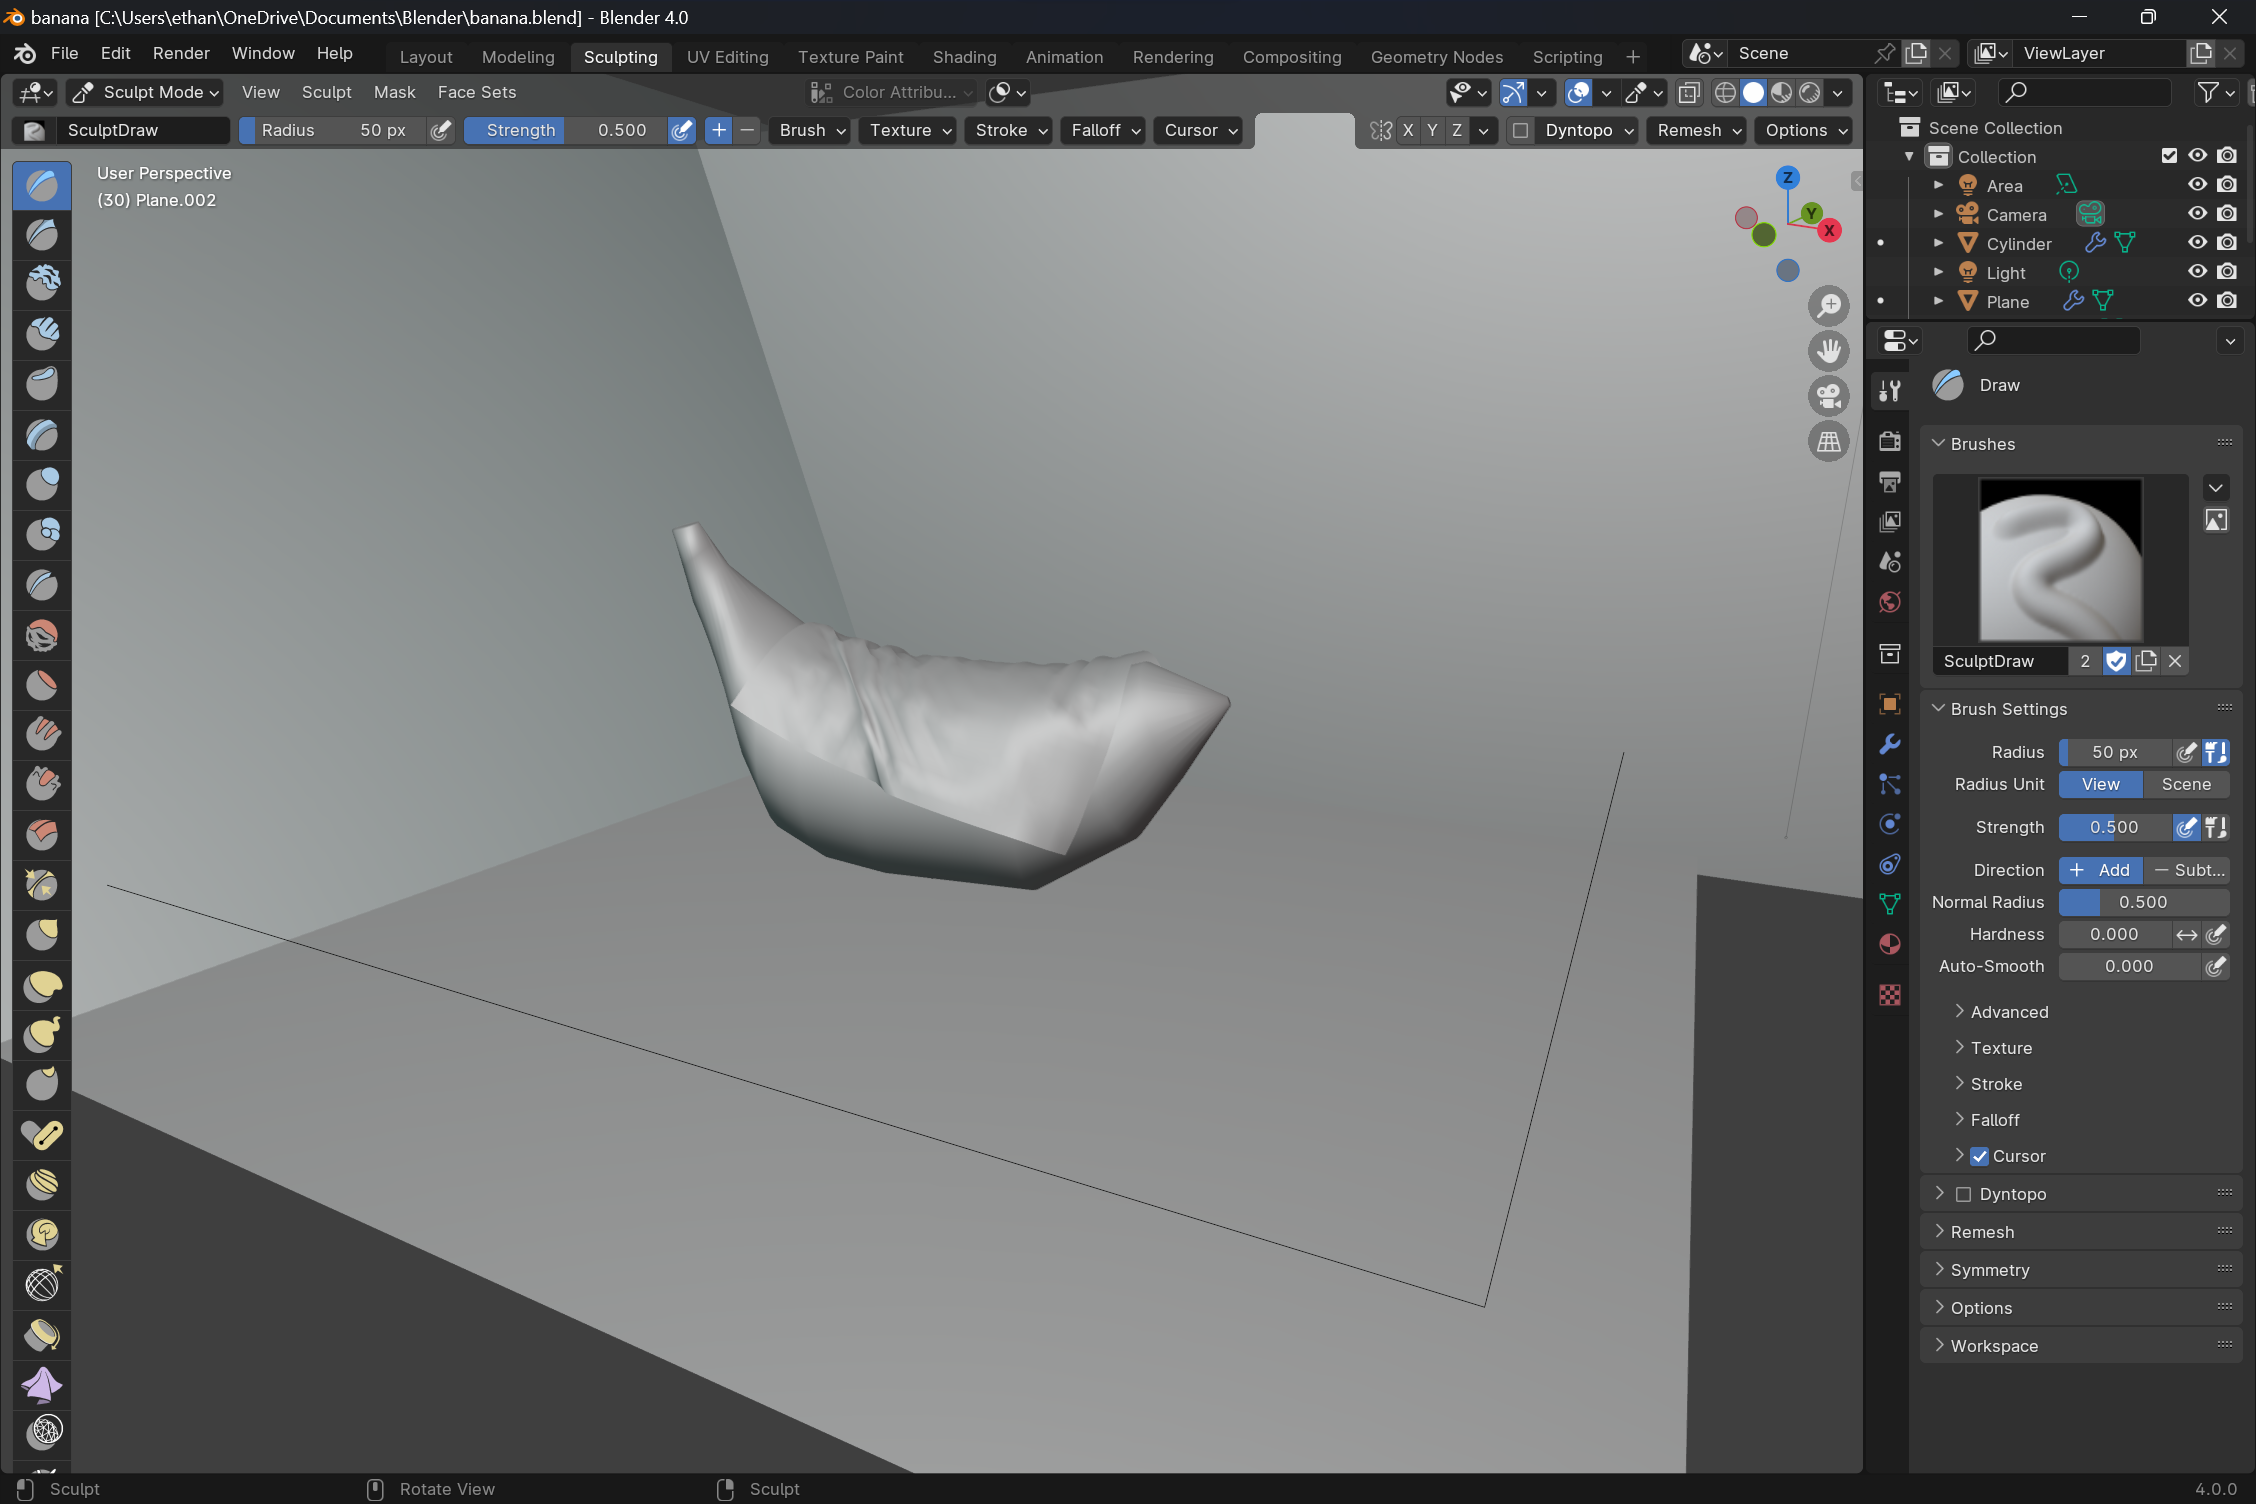
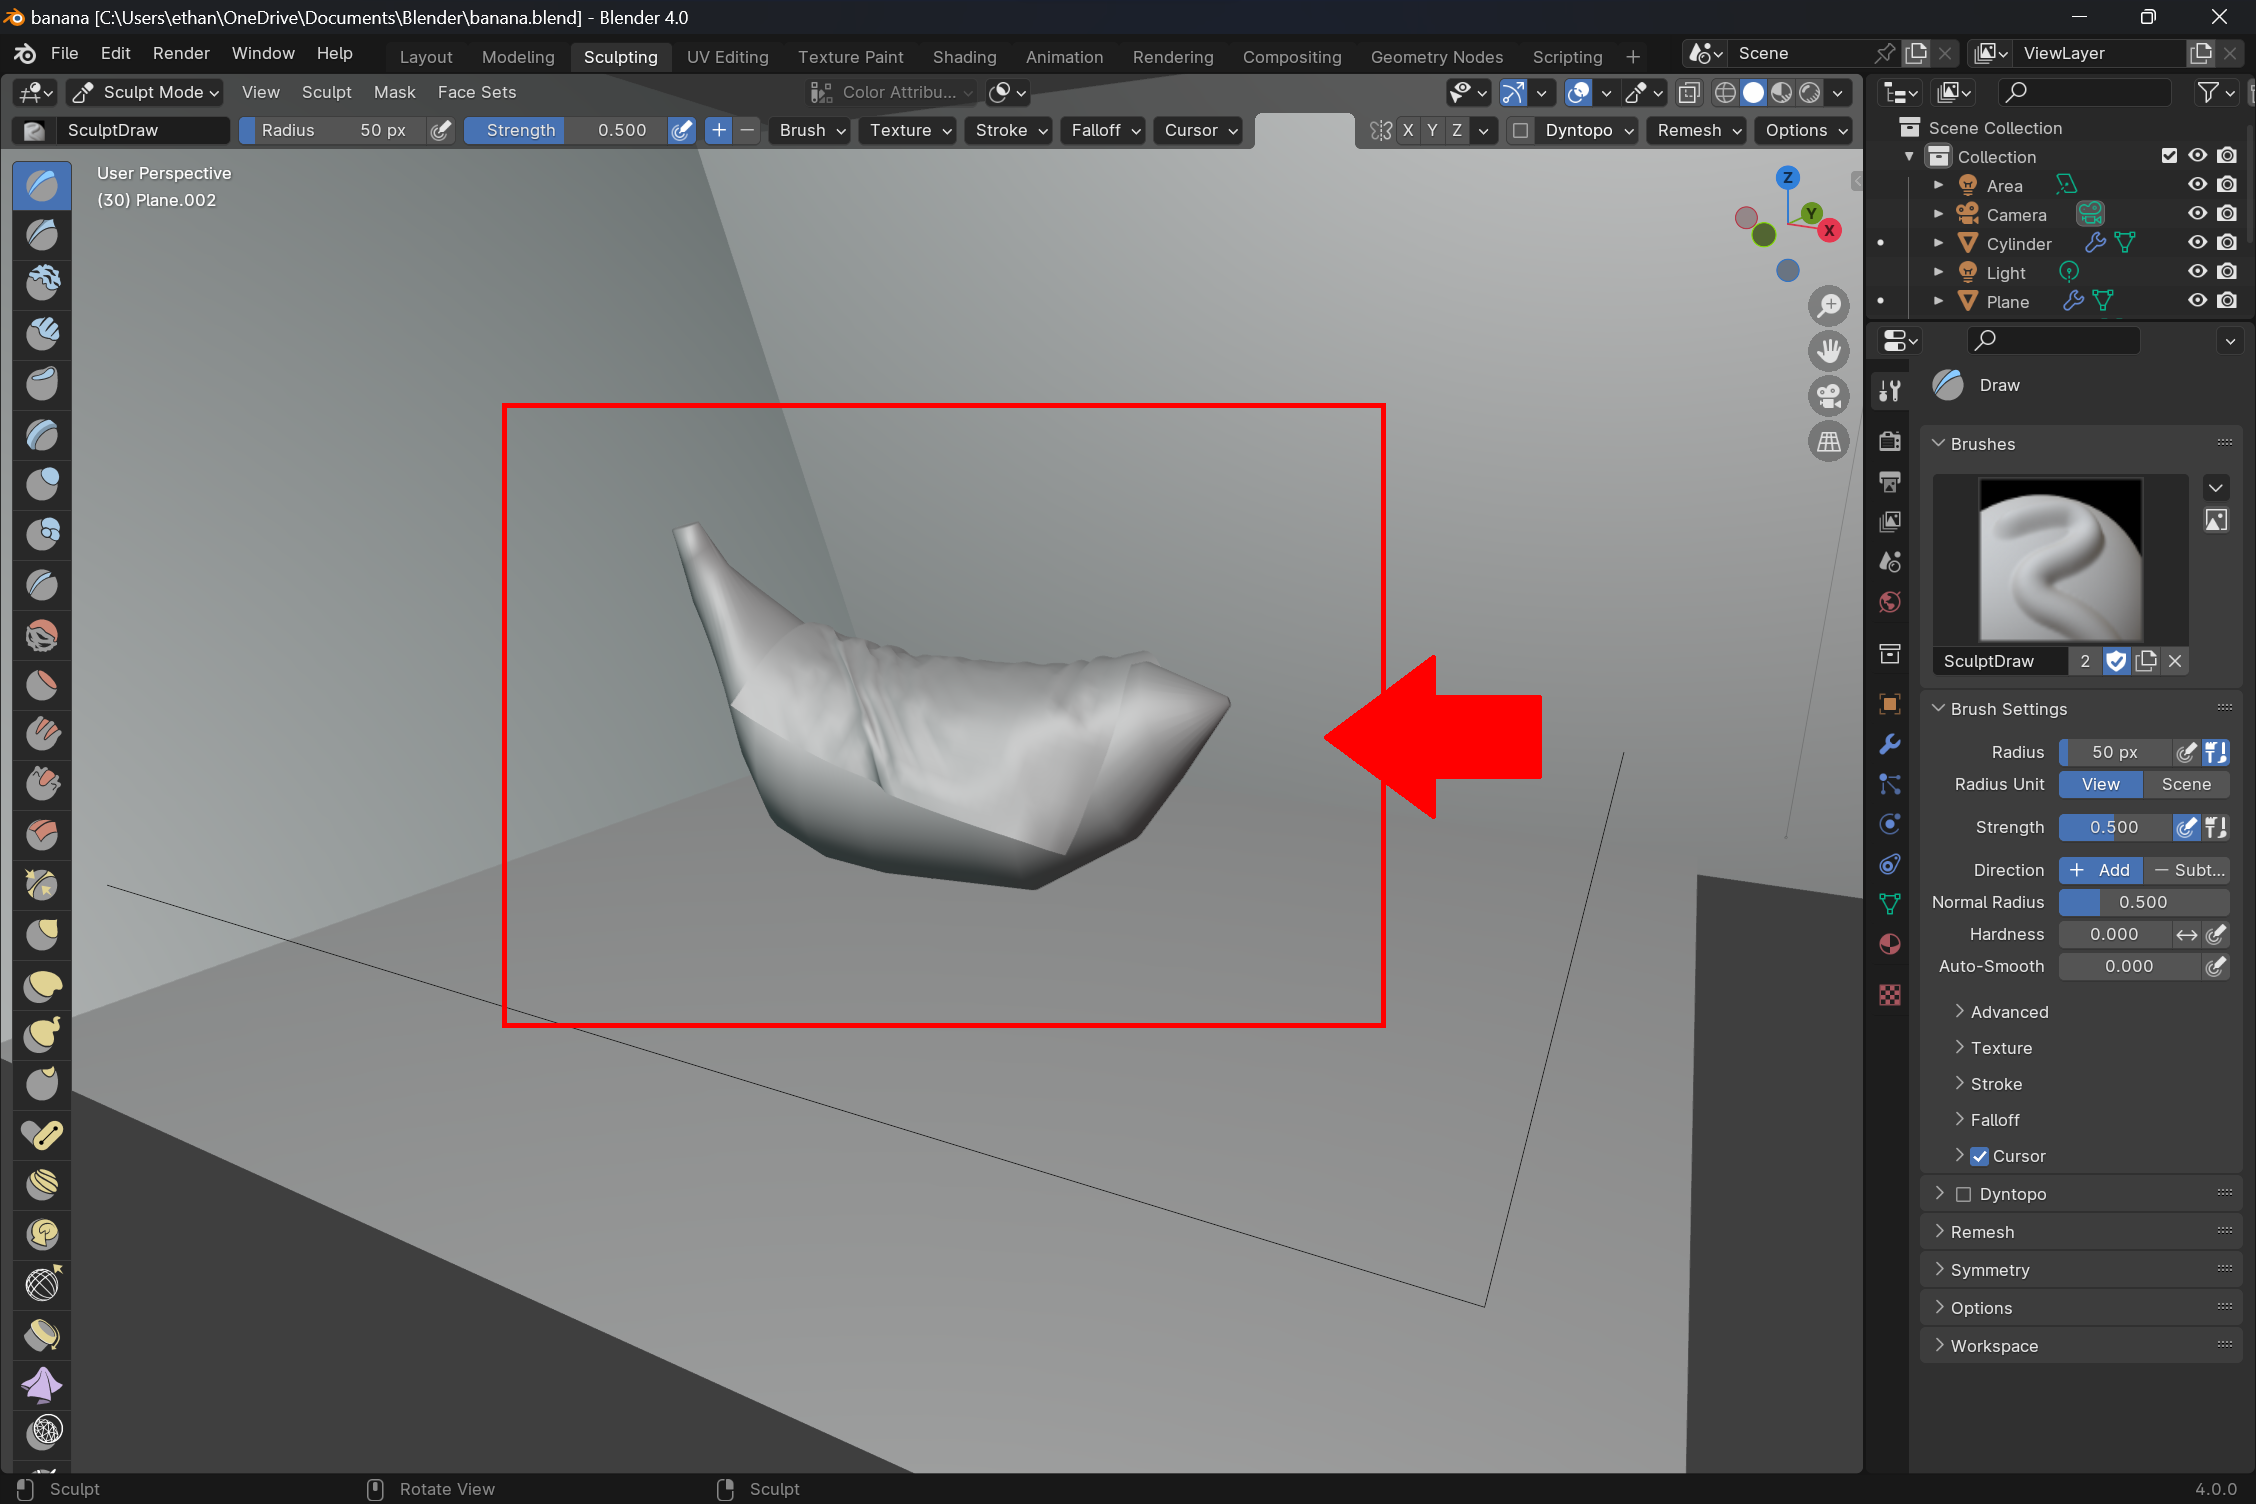
Updated Images in transform

Changed region(s): [[0.2172, 0.6562, 0.6206, 0.6875], [0.2172, 0.25, 0.6206, 0.2812], [0.5895, 0.4375, 0.6826, 0.5625]]

diff --git a/style.css b/style.css
@@ -26,3 +26,4 @@ img {
     font-family: "Times New Roman", Times, serif;
     font-style: italic;
 }
+

diff --git a/transformTool.md b/transformTool.md
@@ -1,69 +1,21 @@
-<style>
-
-h1 {
-    color: #e87d0d;
-}
-
-h2, h3, h4, h5, h6 {
-    color: #265787;
-}
-
-p {
-    font-size: 12pt;
-    text-align: left;
-}
-
-information {
-    font-family: "Times New Roman", Times, serif;
-}
-
-img {
-    width: 100%;
-    height: auto;
-}
-
-.icon {
-    style="display;
-     inline; height:15px; 
-     width:15px;"
-}
-
-</style>
+<link rel="stylesheet" href="style.css">
 
 # Scaling Models
 <information>
 Below is a standard cube in the traditional blender project layout, in order to be able to manipulate the size of thè object it is best to move to the **Layout** Tab.
 </information>
 
-![Image of starter Basic Layout](images/basicCubeLayout.png)
+![Image of starter Basic Layout](images/objectPaneHighlighted.png)
 
 1. Selecting the object you wish to resize/move/rotate by clicking on it in the workspace, or clicking on its label in the scene layout pane. 
 2. Open the **Object** pane as denoted by a "<img src = "images\objectIcon.png" class="icon">".  
 3. ![Object Pane](images/objectPanedCollapsed.png) Select the **Transform** tab in the **Object** sub-menu.
-   - <information>The tranform menu is what enables you to precisely move, turn, and stretch an object. It is split into 3 sections *Location*, *Rotation*, and *Scale* with each of these menus split into *X*, *Y*, and *Z*. These are representative of the 3 traditional axis of a 3d plane in math. Modifying each of these options will affect the object relative to the plane. </information>
-
+   - <information>The transform menu is what enables you to precisely move, turn, and stretch an object. It is split into 3 sections *Location*, *Rotation*, and *Scale* with each of these menus split into *X*, *Y*, and *Z*. These are representative of the 3 traditional axis of a 3d plane in math. Modifying each of these options will affect the object relative to the plane. </information>
+4. Scale, Rotate, and Move the Object as you see fit.
+   - Move
+     - <div class = "information">The Location tool operates by sliding your object in relation to there relative axis in terms of meters. To slide the object forward, to the right, or up add to the x, y, z units. To move thm backwards, to the left, or down subtract from the x, y, or z units</div>
+   - Rotate
+     - <div class = "information"></div>
+   - Scale
+     - <div class = "information"></div>
 ![Transform Sub-Menu](images/transformMenu.png)
-
-# Industry standard sizings
-
-<information>
-When it comes time to build out a 3d model for a part often what comes up is how do I maintain a consistent scale through out my project to maintain interoperability, so that when it comes time to assemble the parts all work together seamlessly. This is often done through the setting a common conversion through out your project. By default most industry use the 1 unit = 1 mm standard when it comes to sizing for 3d prints. However larger more industrial groups use ____. However one of  the key ways to promote interoperability is through the use of standardized connectors. These include nuts, bolts, motors, and other select parts. So in this section we will walk through how to add industry standard parts to your projects. 
-</information>
-
-# Downloading the required models
-
-## Where to go 
-
-For the models 
-
-## importing the models
-
-# Adding the models
-
-## Scaling the models
-
-## Joining the models.
-
-## Boolean cuts. 
-
-Export Link

diff --git a/style.md b/style.md
@@ -12,7 +12,7 @@ All body text should be left justified with 12 pt font throughout. With informat
 
 
 <div class= "information">
-Lists can only be in the bulleted, and numbered formats. With smaller subsections of list items. Denoted a tab indent and a change in marking. 
+Lists can only be in the bulleted, and numbered formats. With smaller subsections of list items. Denoted a tab indent and a change in marking. Numbered formats are to be reserved for directions, and bulleted lists are to be reserved for information.
 
 
 Example:
@@ -108,7 +108,7 @@ A Demonstration of a table of contents following this format. For the purpose of
 
 Images should break the text and fill the sides, to make them more visibly seen as a separate part of instructions. All images should also labeled to keep in line with accessibility concerns. (Note: image descriptions should not start with "Image of ..." or the like as screen readers used by the visibly impaired will already denote them as images.)
 
-For images that are used to highlight menus, options a red (<span style="color: #ff0000;">#ff0000</span>) box should be placed around the necessary UI. The selected UI should follow standard default UI to avoid confusion.
+For images that are used to highlight menus options a red (<span style="color: #ff0000;">#ff0000</span>) box should be placed around the necessary UI. The selected UI should follow standard default UI to avoid confusion.
 
 Example:
 ![Banana render covered in cloth simulation](images/exampleBanana.png)

diff --git a/importing.md b/importing.md
@@ -1,0 +1,29 @@
+<link rel="stylesheet" href="style.css">
+
+# Importing an Object
+
+<information>One of the key things to do when compositing scene is adding the objects from several people/projects into one collective scene. This is done through the use of importing an object.</information>
+
+## Supported File Types
+<information>Blender supports a variety of file formats, however due to the fact that some file formats are proprietary, and the fact that not all file formats are meant to be 3D, such as .csv files, not all file types are supported. So below is a compiled list of supported file formats.</information> 
+
+
+| File Type | Extension | Information |
+|----|----|------|
+| Blender | .blend | 3D Object |
+| FBX | .fbx | 3D Object |
+| Wavefront | .obj | 3D Object |
+| Collada  | .dae | 3D Object |
+| Alembic | .abc | 3D Object |
+| Stanford | .ply | 3D Object |
+| Stl | .stl	 | 3D Object |
+| glTF | .gltf | 3D Object |
+| X3D Extensible | .x3d | 3D Object |
+| AutoCad DXF | .dxf | 3D Object |
+
+
+## Where to find objects
+
+
+
+## Adding the object to the scene
